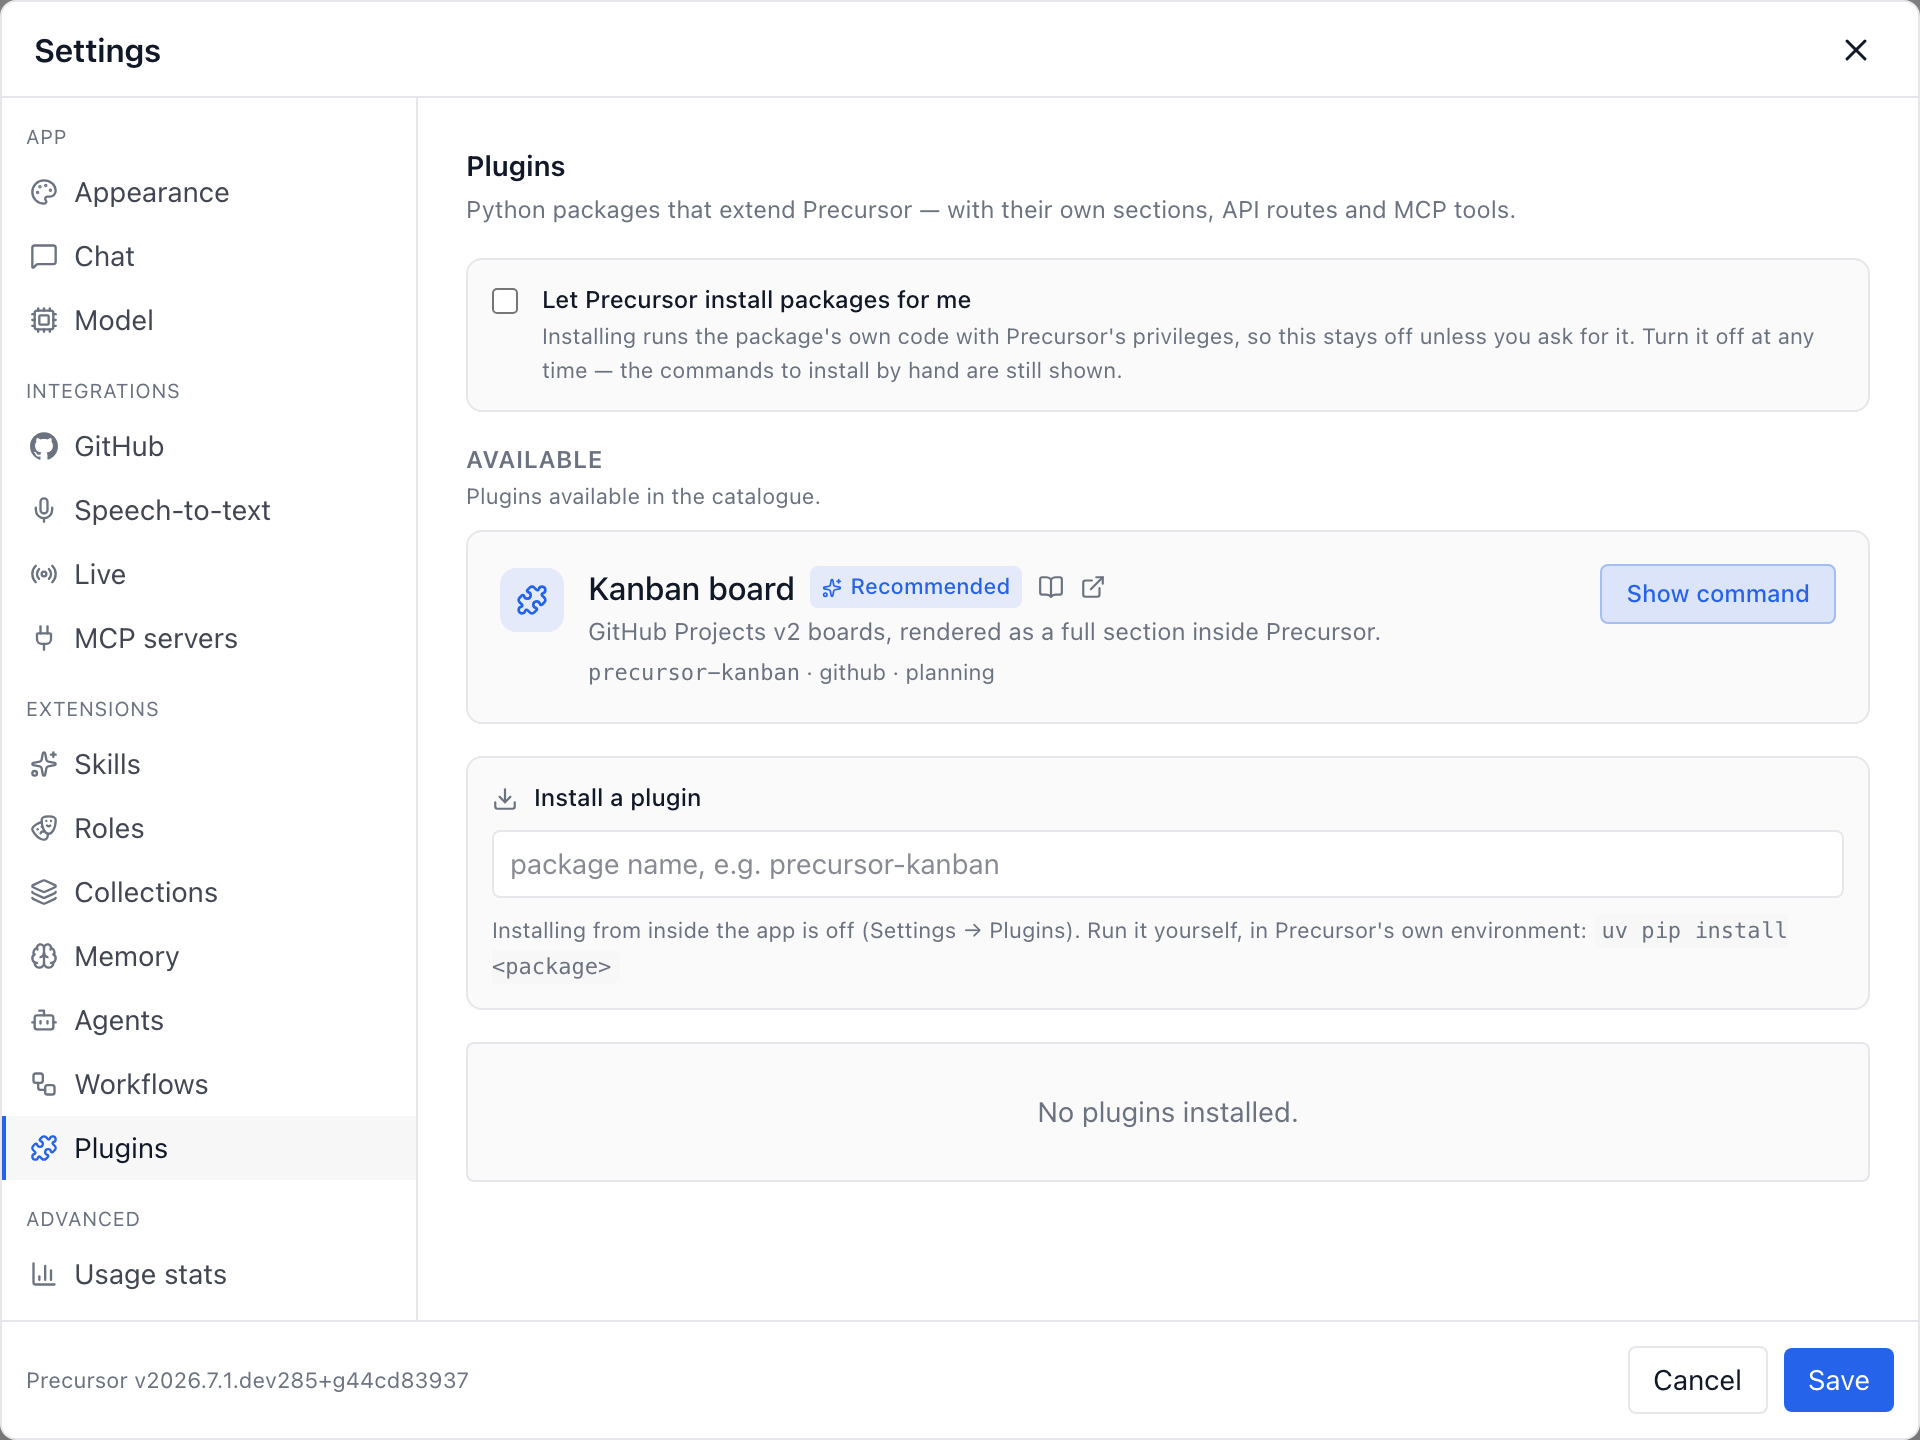
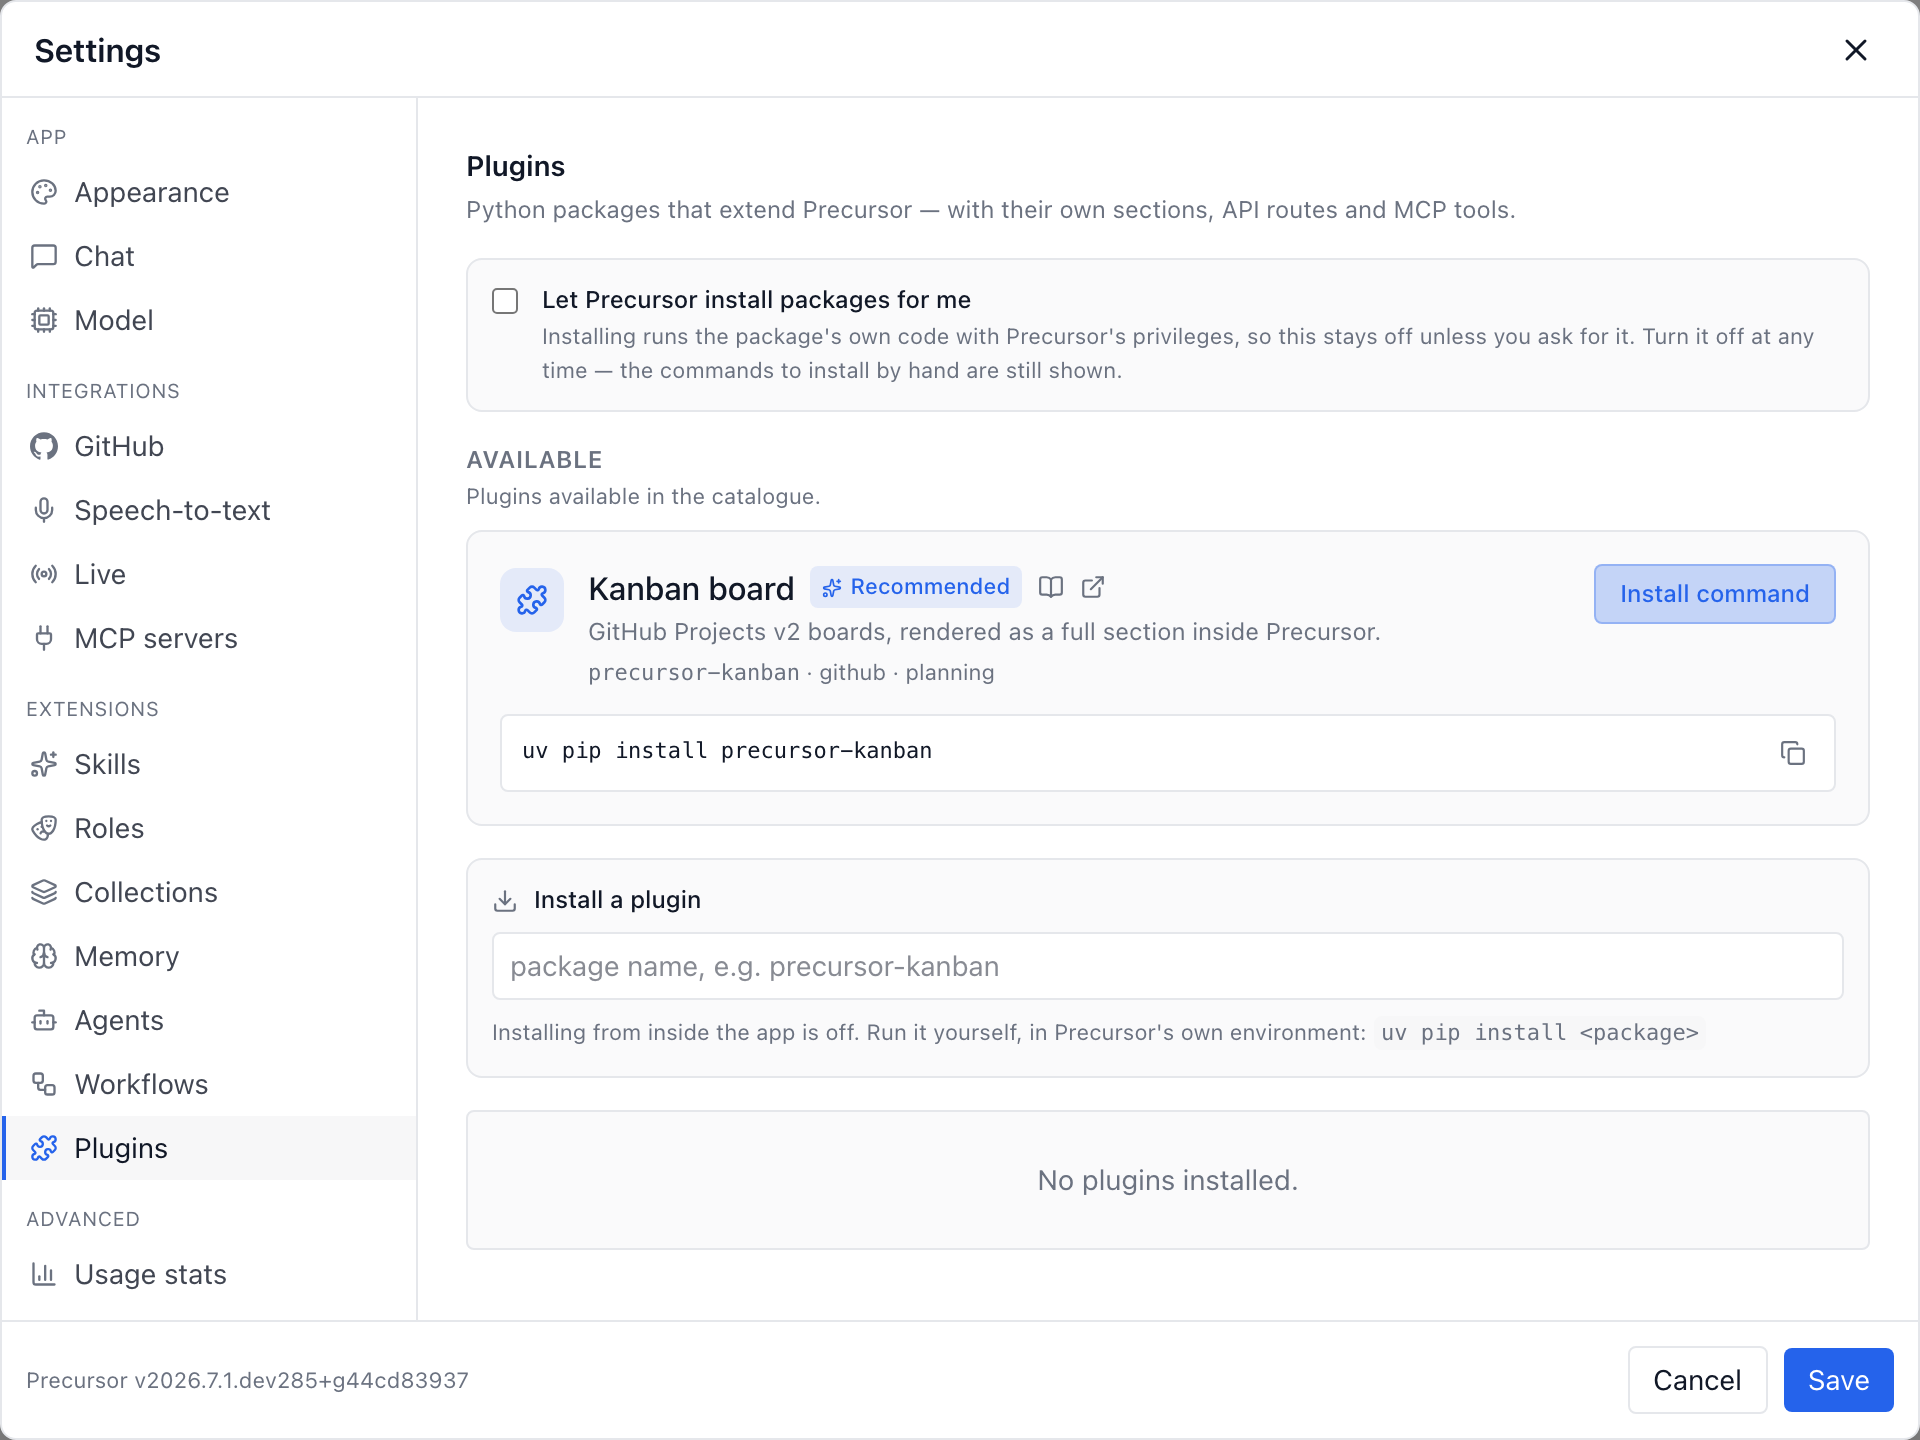
fix(plugins): show a catalogue entry's install command on the card
"Show command" promised a command and delivered a text input quietly gaining a
word: it wrote the package name into the free-form install box further down the
panel, leaving the actual command as small muted text somewhere else on screen.
The label described an intention the interface never carried out.

The button is now "Install command" and does the whole job in place — it
reveals the exact command for this environment in a monospace block on the
entry's own card, and copies it to the clipboard in the same click, with the
usual tick confirming. The reveal is not gated on the copy: clipboard access
can fail (insecure context, denied permission) and the useful half should still
happen rather than the button appearing to do nothing.

Each entry is now its own `CatalogCard`, because "is my command showing" and
"was it just copied" are per-row state and don't belong in a map keyed by
plugin id in the parent.

Also drops "(Settings → Plugins)" from the installer-off explanation. That
string is rendered *in* Settings → Plugins, a few pixels under the switch it
was pointing at.

Copilot-Session: 098cc4a9-f80f-423a-a487-50223fcf3742

diff --git a/frontend/src/components/PluginsSettings.tsx b/frontend/src/components/PluginsSettings.tsx
@@ -2,6 +2,8 @@ import { useCallback, useEffect, useMemo, useState } from "react";
 import {
   AlertTriangle,
   BookOpen,
+  Check,
+  Copy,
   Download,
   ExternalLink,
   LayoutGrid,
@@ -238,9 +240,9 @@ export function PluginsSettings() {
         <Catalog
           entries={available}
           canInstall={env?.can_install === true}
+          commandTemplate={env?.command_template ?? null}
           installing={installing}
           onInstall={(distribution) => void installPackage(distribution, false)}
-          onPrepare={setPkg}
         />
       )}
 
@@ -367,18 +369,28 @@ export function PluginsSettings() {
  * allowed to install (not opted in, not on loopback), the entry still earns its
  * place: it loads the name into the box above so the copyable command is right.
  */
+/**
+ * The bundled catalogue: plugins you could add, with a one-click install.
+ *
+ * Installing from here is a *shortcut to a package name*, not a second install
+ * path — the button calls the same gated endpoint the free-form box does. When
+ * the app isn't allowed to install (not opted in, not on loopback), the entry
+ * still earns its place: it shows the exact command for this environment, right
+ * on the card, ready to copy.
+ */
 function Catalog({
   entries,
   canInstall,
+  commandTemplate,
   installing,
   onInstall,
-  onPrepare,
 }: {
   entries: CatalogPlugin[];
   canInstall: boolean;
+  /** Environment-specific install command, with a `<package>` placeholder. */
+  commandTemplate: string | null;
   installing: string | null;
   onInstall: (distribution: string) => void;
-  onPrepare: (distribution: string) => void;
 }) {
   return (
     <div className="flex flex-col gap-2">
@@ -392,76 +404,153 @@ function Catalog({
       </div>
       <ul className="flex flex-col gap-3">
         {entries.map((entry) => (
-          <li
+          <CatalogCard
             key={entry.id}
-            className="flex flex-col gap-3 rounded-lg border border-border bg-surface/60 p-4"
-          >
-            <div className="flex items-start gap-3">
-              <span className="mt-0.5 flex h-8 w-8 shrink-0 items-center justify-center rounded-lg bg-accent/10 text-accent">
-                <Puzzle size={16} />
-              </span>
-              <div className="min-w-0 flex-1">
-                <div className="flex flex-wrap items-center gap-2">
-                  <span className="truncate font-medium">{entry.title}</span>
-                  {entry.recommended && (
-                    <span
-                      className="inline-flex shrink-0 items-center gap-1 rounded bg-accent/10 px-1.5 py-0.5 text-[11px] font-medium text-accent"
-                      data-tooltip="Maintained or vetted by the Precursor project"
-                    >
-                      <Sparkles size={10} />
-                      Recommended
-                    </span>
-                  )}
-                  <a
-                    href={entry.docs_path}
-                    target="_blank"
-                    rel="noopener noreferrer"
-                    className="shrink-0 text-muted hover:text-accent"
-                    aria-label={`Read the ${entry.title} documentation`}
-                    data-tooltip="Documentation"
-                  >
-                    <BookOpen size={13} />
-                  </a>
-                  {entry.homepage && (
-                    <a
-                      href={entry.homepage}
-                      target="_blank"
-                      rel="noopener noreferrer"
-                      className="shrink-0 text-muted hover:text-accent"
-                      aria-label={`Open the ${entry.title} homepage`}
-                      data-tooltip="Homepage"
-                    >
-                      <ExternalLink size={13} />
-                    </a>
-                  )}
-                </div>
-                <p className="mt-0.5 text-xs text-muted">{entry.summary}</p>
-                <p className="mt-1 font-mono text-[11px] text-muted">
-                  {entry.distribution}
-                  {entry.tags.length > 0 && (
-                    <span className="font-sans"> · {entry.tags.join(" · ")}</span>
-                  )}
-                </p>
-              </div>
-              <button
-                type="button"
-                disabled={installing !== null}
-                onClick={() =>
-                  canInstall ? onInstall(entry.distribution) : onPrepare(entry.distribution)
-                }
-                className="shrink-0 rounded border border-accent/30 bg-accent/15 px-3 py-1.5 text-xs font-medium text-accent hover:bg-accent/25 disabled:opacity-50"
-              >
-                {installing === entry.distribution
-                  ? "Installing…"
-                  : canInstall
-                    ? "Install"
-                    : "Show command"}
-              </button>
-            </div>
-          </li>
+            entry={entry}
+            canInstall={canInstall}
+            commandTemplate={commandTemplate}
+            installing={installing}
+            onInstall={onInstall}
+          />
         ))}
       </ul>
     </div>
+  );
+}
+
+/**
+ * One catalogue entry.
+ *
+ * Its own component because each card owns a little state — whether its install
+ * command is revealed, and whether it was just copied — which shouldn't be
+ * hoisted into a map keyed by plugin id.
+ */
+function CatalogCard({
+  entry,
+  canInstall,
+  commandTemplate,
+  installing,
+  onInstall,
+}: {
+  entry: CatalogPlugin;
+  canInstall: boolean;
+  commandTemplate: string | null;
+  installing: string | null;
+  onInstall: (distribution: string) => void;
+}) {
+  const [revealed, setRevealed] = useState(false);
+  const [copied, setCopied] = useState(false);
+
+  const command = (commandTemplate ?? "uv pip install <package>").replace(
+    "<package>",
+    entry.distribution,
+  );
+
+  /**
+   * Reveal the command *and* put it on the clipboard in one go.
+   *
+   * The reveal is what the label promises; the copy is what the user was going
+   * to do next anyway. Copying can fail (no clipboard permission, insecure
+   * context), so it must not gate showing the command — that would leave the
+   * button looking broken when the useful half still worked.
+   */
+  async function showCommand() {
+    setRevealed(true);
+    try {
+      await navigator.clipboard.writeText(command);
+      setCopied(true);
+      setTimeout(() => setCopied(false), 1500);
+    } catch {
+      /* clipboard unavailable — the command is on screen either way */
+    }
+  }
+
+  return (
+    <li className="flex flex-col gap-3 rounded-lg border border-border bg-surface/60 p-4">
+      <div className="flex items-start gap-3">
+        <span className="mt-0.5 flex h-8 w-8 shrink-0 items-center justify-center rounded-lg bg-accent/10 text-accent">
+          <Puzzle size={16} />
+        </span>
+        <div className="min-w-0 flex-1">
+          <div className="flex flex-wrap items-center gap-2">
+            <span className="truncate font-medium">{entry.title}</span>
+            {entry.recommended && (
+              <span
+                className="inline-flex shrink-0 items-center gap-1 rounded bg-accent/10 px-1.5 py-0.5 text-[11px] font-medium text-accent"
+                data-tooltip="Maintained or vetted by the Precursor project"
+              >
+                <Sparkles size={10} />
+                Recommended
+              </span>
+            )}
+            <a
+              href={entry.docs_path}
+              target="_blank"
+              rel="noopener noreferrer"
+              className="shrink-0 text-muted hover:text-accent"
+              aria-label={`Read the ${entry.title} documentation`}
+              data-tooltip="Documentation"
+            >
+              <BookOpen size={13} />
+            </a>
+            {entry.homepage && (
+              <a
+                href={entry.homepage}
+                target="_blank"
+                rel="noopener noreferrer"
+                className="shrink-0 text-muted hover:text-accent"
+                aria-label={`Open the ${entry.title} homepage`}
+                data-tooltip="Homepage"
+              >
+                <ExternalLink size={13} />
+              </a>
+            )}
+          </div>
+          <p className="mt-0.5 text-xs text-muted">{entry.summary}</p>
+          <p className="mt-1 font-mono text-[11px] text-muted">
+            {entry.distribution}
+            {entry.tags.length > 0 && (
+              <span className="font-sans"> · {entry.tags.join(" · ")}</span>
+            )}
+          </p>
+        </div>
+        <button
+          type="button"
+          disabled={installing !== null}
+          onClick={() =>
+            canInstall ? onInstall(entry.distribution) : void showCommand()
+          }
+          className="shrink-0 rounded border border-accent/30 bg-accent/15 px-3 py-1.5 text-xs font-medium text-accent hover:bg-accent/25 disabled:opacity-50"
+        >
+          {installing === entry.distribution
+            ? "Installing…"
+            : canInstall
+              ? "Install"
+              : "Install command"}
+        </button>
+      </div>
+
+      {/* The command itself, in place. It was previously loaded into the
+          free-form box further down the panel, which read as the button having
+          done nothing: the label promised a command and the eye had to hunt
+          for it. */}
+      {!canInstall && revealed && (
+        <div className="flex items-center gap-2 rounded border border-border bg-bg px-2.5 py-2">
+          <code className="min-w-0 flex-1 select-all break-all font-mono text-[11px]">
+            {command}
+          </code>
+          <button
+            type="button"
+            onClick={() => void showCommand()}
+            className="shrink-0 rounded p-1 text-muted hover:bg-surface hover:text-accent"
+            aria-label="Copy the install command"
+            data-tooltip={copied ? "Copied" : "Copy"}
+          >
+            {copied ? <Check size={13} className="text-emerald-500" /> : <Copy size={13} />}
+          </button>
+        </div>
+      )}
+    </li>
   );
 }
 

diff --git a/scripts/capture_screenshots.js b/scripts/capture_screenshots.js
@@ -207,12 +207,19 @@ const scenes = {
   // The same panel, framed on the bundled catalogue — the "Available" list you
   // install from. Its content depends on what the demo environment already has:
   // an entry disappears from Available once its package is installed, so run
-  // this one against an instance *without* the catalogued plugins.
+  // this one against an instance *without* the catalogued plugins. The shot
+  // reveals one entry's install command, since that is the state a reader
+  // without the in-app installer enabled will actually meet.
   "plugins-catalog": {
     viewport: { width: 1440, height: 1000 },
     async go(page) {
       await page.goto(`${BASE}/`, { waitUntil: "networkidle" });
       await openSettings(page, "Plugins");
+      const command = page.getByRole("button", { name: "Install command" }).first();
+      if (await command.count()) {
+        await command.click();
+        await sleep(600);
+      }
       return clipOf(page, "div.fixed.inset-0 > div, [role=dialog]", 0);
     },
   },

diff --git a/precursor/backend/routers/plugins.py b/precursor/backend/routers/plugins.py
@@ -324,7 +324,10 @@ async def plugin_environment(
             if not env.can_install
             else None
             if local and opted_in
-            else "Installing from inside the app is off (Settings → Plugins)."
+            # Deliberately doesn't name Settings → Plugins: this string is
+            # rendered *in* that panel, directly below the switch it would be
+            # pointing at.
+            else "Installing from inside the app is off."
             if local
             else "Only available from Precursor's own localhost address."
         ),

diff --git a/website/features/plugins.md b/website/features/plugins.md
@@ -32,7 +32,7 @@ Install the package, restart, and all three appear. Uninstall it and they all go
 [plugin catalogue](/plugins), a curated directory of plugins we know about, each
 with a one-click **Install**.
 
-<Screenshot src="/screenshots/plugins-catalog.png" alt="The Plugins settings panel showing an Available list with the Kanban board entry, marked Recommended, above the install box" caption="Settings → Plugins: the bundled catalogue. Installing is off here, so the entry offers the command instead — the box below it fills in." />
+<Screenshot src="/screenshots/plugins-catalog.png" alt="The Plugins settings panel showing an Available list with the Kanban board entry, marked Recommended, its install command revealed below it" caption="Settings → Plugins: the bundled catalogue. Installing is off here, so the entry reveals the exact command for this environment — copied to the clipboard at the same time." />
 
 The catalogue is **bundled with Precursor rather than fetched** — it needs no
 network, adds no failure states, phones nothing home, and every entry was

diff --git a/CHANGELOG.md b/CHANGELOG.md
@@ -101,6 +101,14 @@ latest git tag (`v<version>`) by hatch-vcs at build time. See
 
 ### Fixed
 
+- **A catalogue entry's install command is now shown where you're looking.**
+  When the in-app installer is off, the entry's button was labelled "Show
+  command" but only wrote the package name into the free-form box further down
+  the panel — so the visible result was a text input quietly gaining a word,
+  while the command itself stayed small, muted and elsewhere. The button is now
+  "Install command", reveals the exact command for this environment on the card
+  itself, and copies it to the clipboard in the same click.
+
 - **The in-app installer's consent could be granted but never withdrawn.** The
   "Let Precursor install packages for me" checkbox lived inside the install box
   and was rendered *only while the permission was off*, so ticking it made it

diff --git a/docs/plugins.md b/docs/plugins.md
@@ -418,7 +418,10 @@ bundles do.
 > file must never take the panel down.
 
 Installing from the catalogue calls the same gated endpoint as typing a package
-name by hand. The catalogue is a shortcut to a name, not a second way in.
+name by hand. The catalogue is a shortcut to a name, not a second way in. With
+the in-app installer off, an entry's button reveals the exact command for this
+environment on the card itself, and copies it, so the zero-risk path is one
+click rather than a hunt.
 
 To get a plugin listed, add the file and open a pull request — the checklist is
 `website/plugins/submitting.md`.

diff --git a/website/reference/plugins.md b/website/reference/plugins.md
@@ -432,7 +432,10 @@ malformed entry fails CI rather than shipping. At runtime an invalid entry is
 logged and skipped — one bad file must never take the panel down.
 
 Installing from the catalogue calls the same gated endpoint as typing a package
-name by hand. The catalogue is a shortcut to a name, not a second way in.
+name by hand. The catalogue is a shortcut to a name, not a second way in. With
+the in-app installer off, an entry's button reveals the exact command for this
+environment on the card itself, and copies it, so the zero-risk path is one
+click rather than a hunt.
 
 ### Getting listed
 
